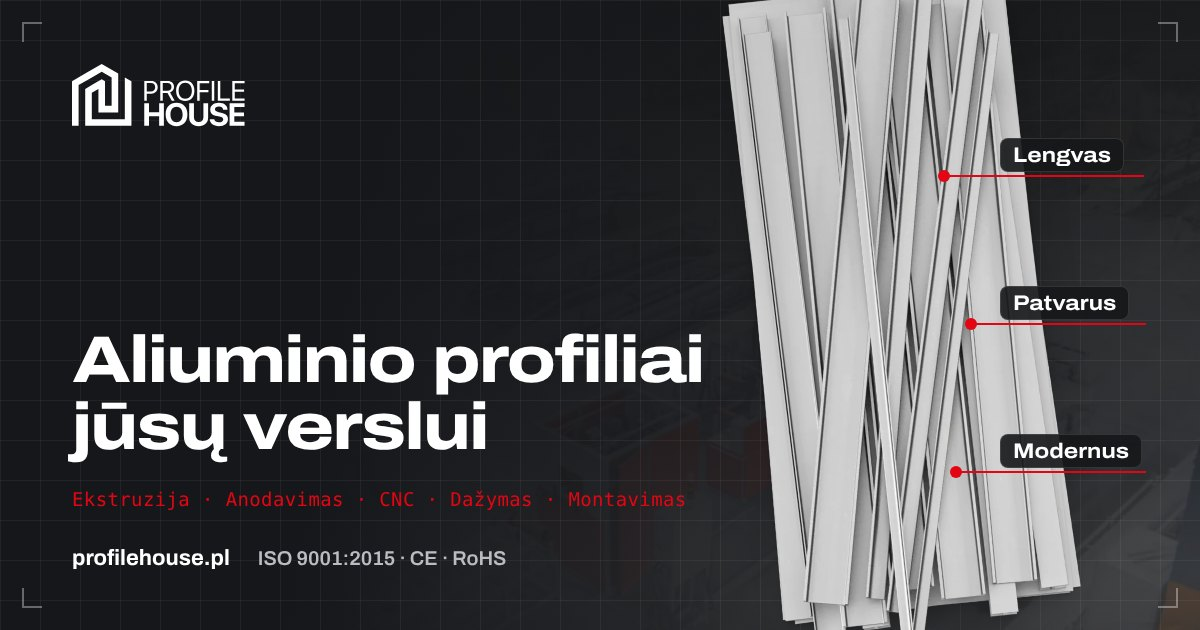
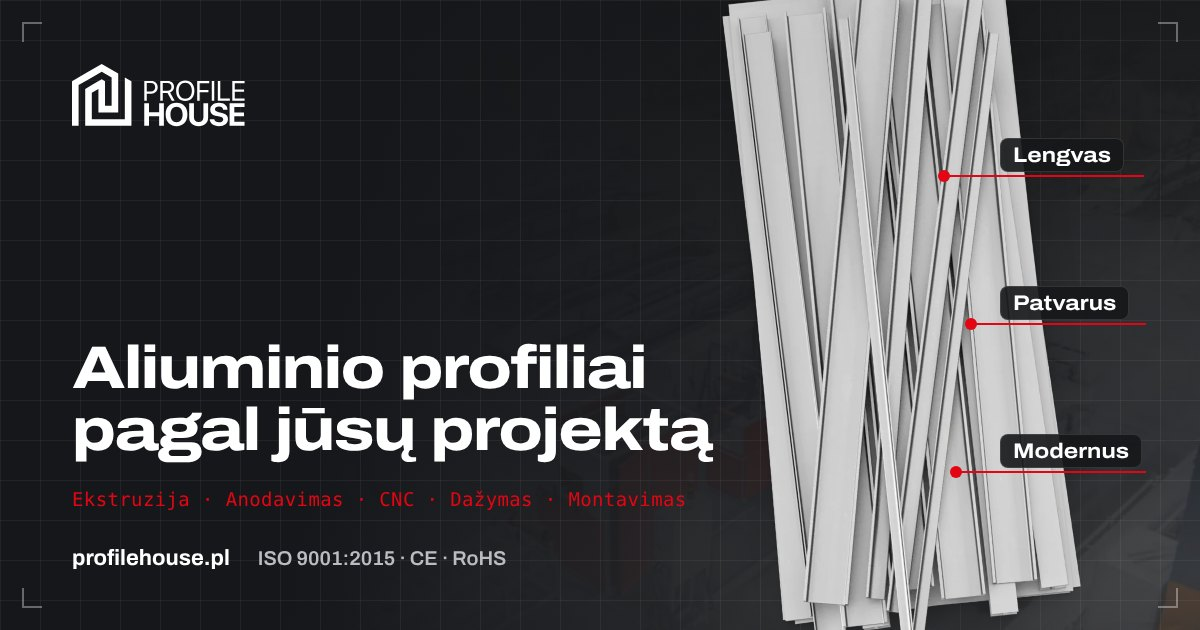
Nowy nagłówek na okładkach linków: „według Twojego projektu”
Claude-Session: https://claude.ai/code/session_01REP7yJjQpHmcWFk5Btmiit

Changed region(s): [[0.0617, 0.5127, 0.6167, 0.754]]

diff --git a/ru/index.html b/ru/index.html
@@ -16,7 +16,7 @@
 <meta property="og:title" content="Profile House — производство и поставка алюминиевых профилей">
 <meta property="og:description" content="Производим и поставляем алюминиевые профили для компаний в Польше и по всей Европе: прессование, анодирование, обработка на ЧПУ, покраска, сборка. Поставки Just in Time.">
 <meta property="og:url" content="https://profilehouse.pl/ru/">
-<meta property="og:image" content="https://profilehouse.pl/assets/og/og-ru.jpg">
+<meta property="og:image" content="https://profilehouse.pl/assets/og/og-ru.jpg?v=8429458b">
 <meta property="og:image:width" content="1200">
 <meta property="og:image:height" content="630">
 <meta property="og:image:alt" content="Profile House">

diff --git a/ru/katalog/index.html b/ru/katalog/index.html
@@ -16,7 +16,7 @@
 <meta property="og:title" content="Каталоги алюминиевых профилей | Profile House">
 <meta property="og:description" content="Скачайте каталоги Profile House: алюминиевые и стандартные профили, на польском и английском языках.">
 <meta property="og:url" content="https://profilehouse.pl/ru/katalog/">
-<meta property="og:image" content="https://profilehouse.pl/assets/og/og-ru.jpg">
+<meta property="og:image" content="https://profilehouse.pl/assets/og/og-ru.jpg?v=8429458b">
 <meta property="og:image:width" content="1200">
 <meta property="og:image:height" content="630">
 <meta property="og:image:alt" content="Profile House">

diff --git a/lt/index.html b/lt/index.html
@@ -16,7 +16,7 @@
 <meta property="og:title" content="Profile House — aliuminio profilių gamintojas ir tiekėjas">
 <meta property="og:description" content="Gaminame ir tiekiame aliuminio profilius įmonėms Lenkijoje ir visoje Europoje: ekstruzija, anodavimas, CNC apdirbimas, dažymas, montavimas. Pristatymas „Just in Time“ principu.">
 <meta property="og:url" content="https://profilehouse.pl/lt/">
-<meta property="og:image" content="https://profilehouse.pl/assets/og/og-lt.jpg">
+<meta property="og:image" content="https://profilehouse.pl/assets/og/og-lt.jpg?v=5ea000de">
 <meta property="og:image:width" content="1200">
 <meta property="og:image:height" content="630">
 <meta property="og:image:alt" content="Profile House">

diff --git a/en/index.html b/en/index.html
@@ -16,7 +16,7 @@
 <meta property="og:title" content="Profile House — aluminium profile manufacturer and supplier">
 <meta property="og:description" content="We manufacture and supply aluminium profiles for businesses in Poland and across Europe: extrusion, anodising, CNC machining, painting and assembly. Just-in-Time delivery.">
 <meta property="og:url" content="https://profilehouse.pl/en/">
-<meta property="og:image" content="https://profilehouse.pl/assets/og/og-en.jpg">
+<meta property="og:image" content="https://profilehouse.pl/assets/og/og-en.jpg?v=ba13b365">
 <meta property="og:image:width" content="1200">
 <meta property="og:image:height" content="630">
 <meta property="og:image:alt" content="Profile House">

diff --git a/index.html b/index.html
@@ -16,7 +16,7 @@
 <meta property="og:title" content="Profile House — producent i dostawca profili aluminiowych">
 <meta property="og:description" content="Produkujemy i dostarczamy profile aluminiowe dla firm w Polsce i w Europie: wyciskanie, anodowanie, obróbka CNC, malowanie, montaż. Dostawy Just In Time.">
 <meta property="og:url" content="https://profilehouse.pl/">
-<meta property="og:image" content="https://profilehouse.pl/assets/og/og-pl.jpg">
+<meta property="og:image" content="https://profilehouse.pl/assets/og/og-pl.jpg?v=dc8b996a">
 <meta property="og:image:width" content="1200">
 <meta property="og:image:height" content="630">
 <meta property="og:image:alt" content="Profile House">

diff --git a/katalog/index.html b/katalog/index.html
@@ -16,7 +16,7 @@
 <meta property="og:title" content="Katalogi profili aluminiowych | Profile House">
 <meta property="og:description" content="Pobierz katalogi Profile House: profile aluminiowe i profile standardowe, w wersji polskiej i angielskiej.">
 <meta property="og:url" content="https://profilehouse.pl/katalog/">
-<meta property="og:image" content="https://profilehouse.pl/assets/og/og-pl.jpg">
+<meta property="og:image" content="https://profilehouse.pl/assets/og/og-pl.jpg?v=dc8b996a">
 <meta property="og:image:width" content="1200">
 <meta property="og:image:height" content="630">
 <meta property="og:image:alt" content="Profile House">

diff --git a/lt/katalog/index.html b/lt/katalog/index.html
@@ -16,7 +16,7 @@
 <meta property="og:title" content="Aliuminio profilių katalogai | Profile House">
 <meta property="og:description" content="Atsisiųskite Profile House katalogus: aliuminio ir standartiniai profiliai lenkų ir anglų kalbomis.">
 <meta property="og:url" content="https://profilehouse.pl/lt/katalog/">
-<meta property="og:image" content="https://profilehouse.pl/assets/og/og-lt.jpg">
+<meta property="og:image" content="https://profilehouse.pl/assets/og/og-lt.jpg?v=5ea000de">
 <meta property="og:image:width" content="1200">
 <meta property="og:image:height" content="630">
 <meta property="og:image:alt" content="Profile House">

diff --git a/en/katalog/index.html b/en/katalog/index.html
@@ -16,7 +16,7 @@
 <meta property="og:title" content="Aluminium profile catalogues | Profile House">
 <meta property="og:description" content="Download Profile House catalogues: aluminium profiles and standard profiles, in Polish and English.">
 <meta property="og:url" content="https://profilehouse.pl/en/katalog/">
-<meta property="og:image" content="https://profilehouse.pl/assets/og/og-en.jpg">
+<meta property="og:image" content="https://profilehouse.pl/assets/og/og-en.jpg?v=ba13b365">
 <meta property="og:image:width" content="1200">
 <meta property="og:image:height" content="630">
 <meta property="og:image:alt" content="Profile House">

diff --git a/404.html b/404.html
@@ -11,7 +11,7 @@
 <meta property="og:title" content="Nie znaleziono strony | Profile House">
 <meta property="og:description" content="Tej strony nie ma">
 <meta property="og:url" content="https://profilehouse.pl/">
-<meta property="og:image" content="https://profilehouse.pl/assets/og/og-pl.jpg">
+<meta property="og:image" content="https://profilehouse.pl/assets/og/og-pl.jpg?v=dc8b996a">
 <meta property="og:image:width" content="1200">
 <meta property="og:image:height" content="630">
 <meta property="og:image:alt" content="Profile House">
